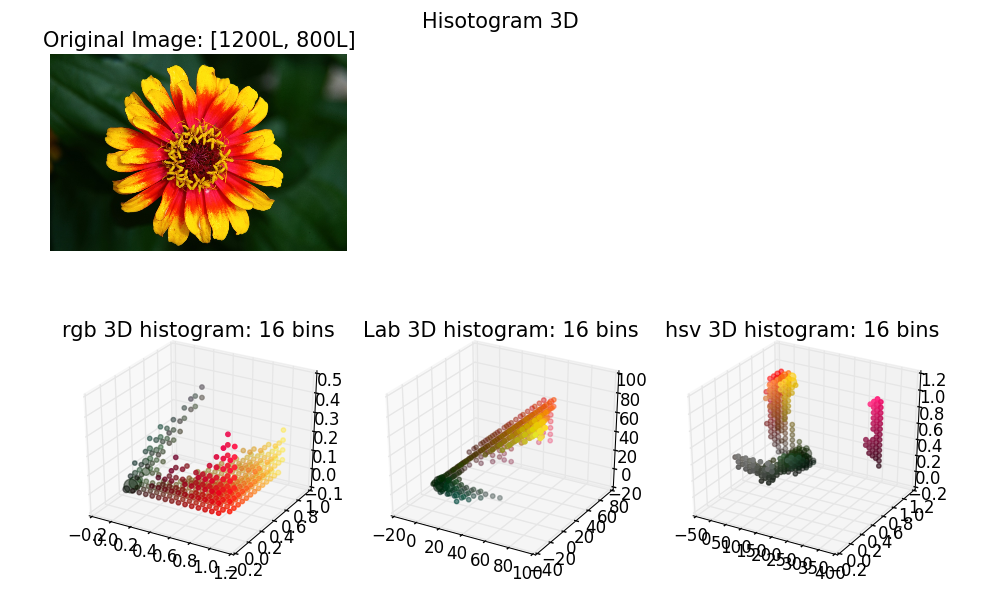
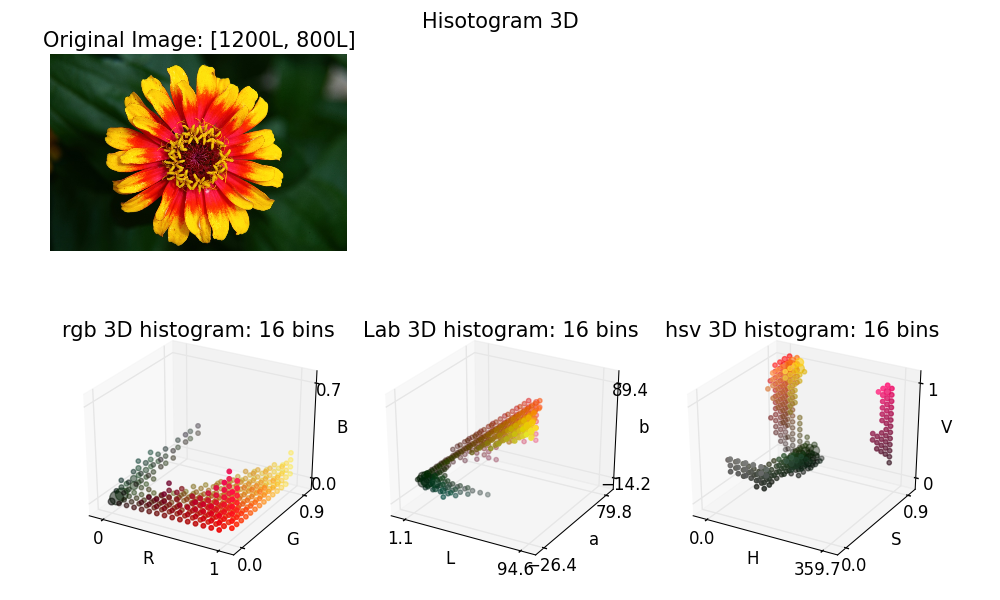
Update results.

diff --git a/color_histogram/core/hist_3d.py b/color_histogram/core/hist_3d.py
@@ -106,6 +106,60 @@ class Hist3D:
     def colorRanges(self):
         return self._color_ranges
 
+    def axisColorSpace(self, ax):
+
+        color_ranges = 0.1 * np.int32(10 * np.array(self._color_ranges)).T
+
+        xrange = color_ranges[0]
+        yrange = color_ranges[1]
+        zrange = color_ranges[2]
+
+        if self._color_space == "rgb":
+            ax.set_xlabel('R')
+            ax.set_ylabel('G')
+            ax.set_zlabel('B')
+        elif self._color_space == "Lab":
+#             xrange = [0.0, 100.0]
+#             yrange = [-50, 100.0]
+#             zrange = [-50.0, 100.0]
+
+            ax.set_xlabel('L')
+            ax.set_ylabel('a')
+            ax.set_zlabel('b')
+
+        elif self._color_space == "hsv":
+#             xrange = [0.0, 360.0]
+#             yrange = [0.0, 1.0]
+#             zrange = [0.0, 1.0]
+
+            ax.set_xlabel('H')
+            ax.set_ylabel('S')
+            ax.set_zlabel('V')
+
+        ax.set_xticks(xrange)
+        ax.set_yticks(yrange)
+        ax.set_zticks(zrange)
+
+        xunit = 0.1 * (xrange[1] - xrange[0])
+        yunit = 0.1 * (yrange[1] - yrange[0])
+        zunit = 0.1 * (zrange[1] - zrange[0])
+
+        xlim = np.array(xrange)
+        xlim[0] += -xunit
+        xlim[1] += xunit
+
+        ylim = np.array(yrange)
+        ylim[0] += -yunit
+        ylim[1] += yunit
+
+        zlim = np.array(zrange)
+        zlim[0] += -zunit
+        zlim[1] += zunit
+
+        ax.set_xlim3d(xlim)
+        ax.set_ylim3d(ylim)
+        ax.set_zlim3d(zlim)
+
     def plotColorSamples(self, ax):
         color_samples = self.colorSamples()
         density_size = self.plotDensitySize()
@@ -113,6 +167,13 @@ class Hist3D:
 
         ax.scatter(color_samples[:, 0], color_samples[:, 1], color_samples[:, 2],
                     color=colors, s=density_size)
+
+        self.axisColorSpace(ax)
+
+
+
+
+
 
 
     def plotDensitySize(self):
